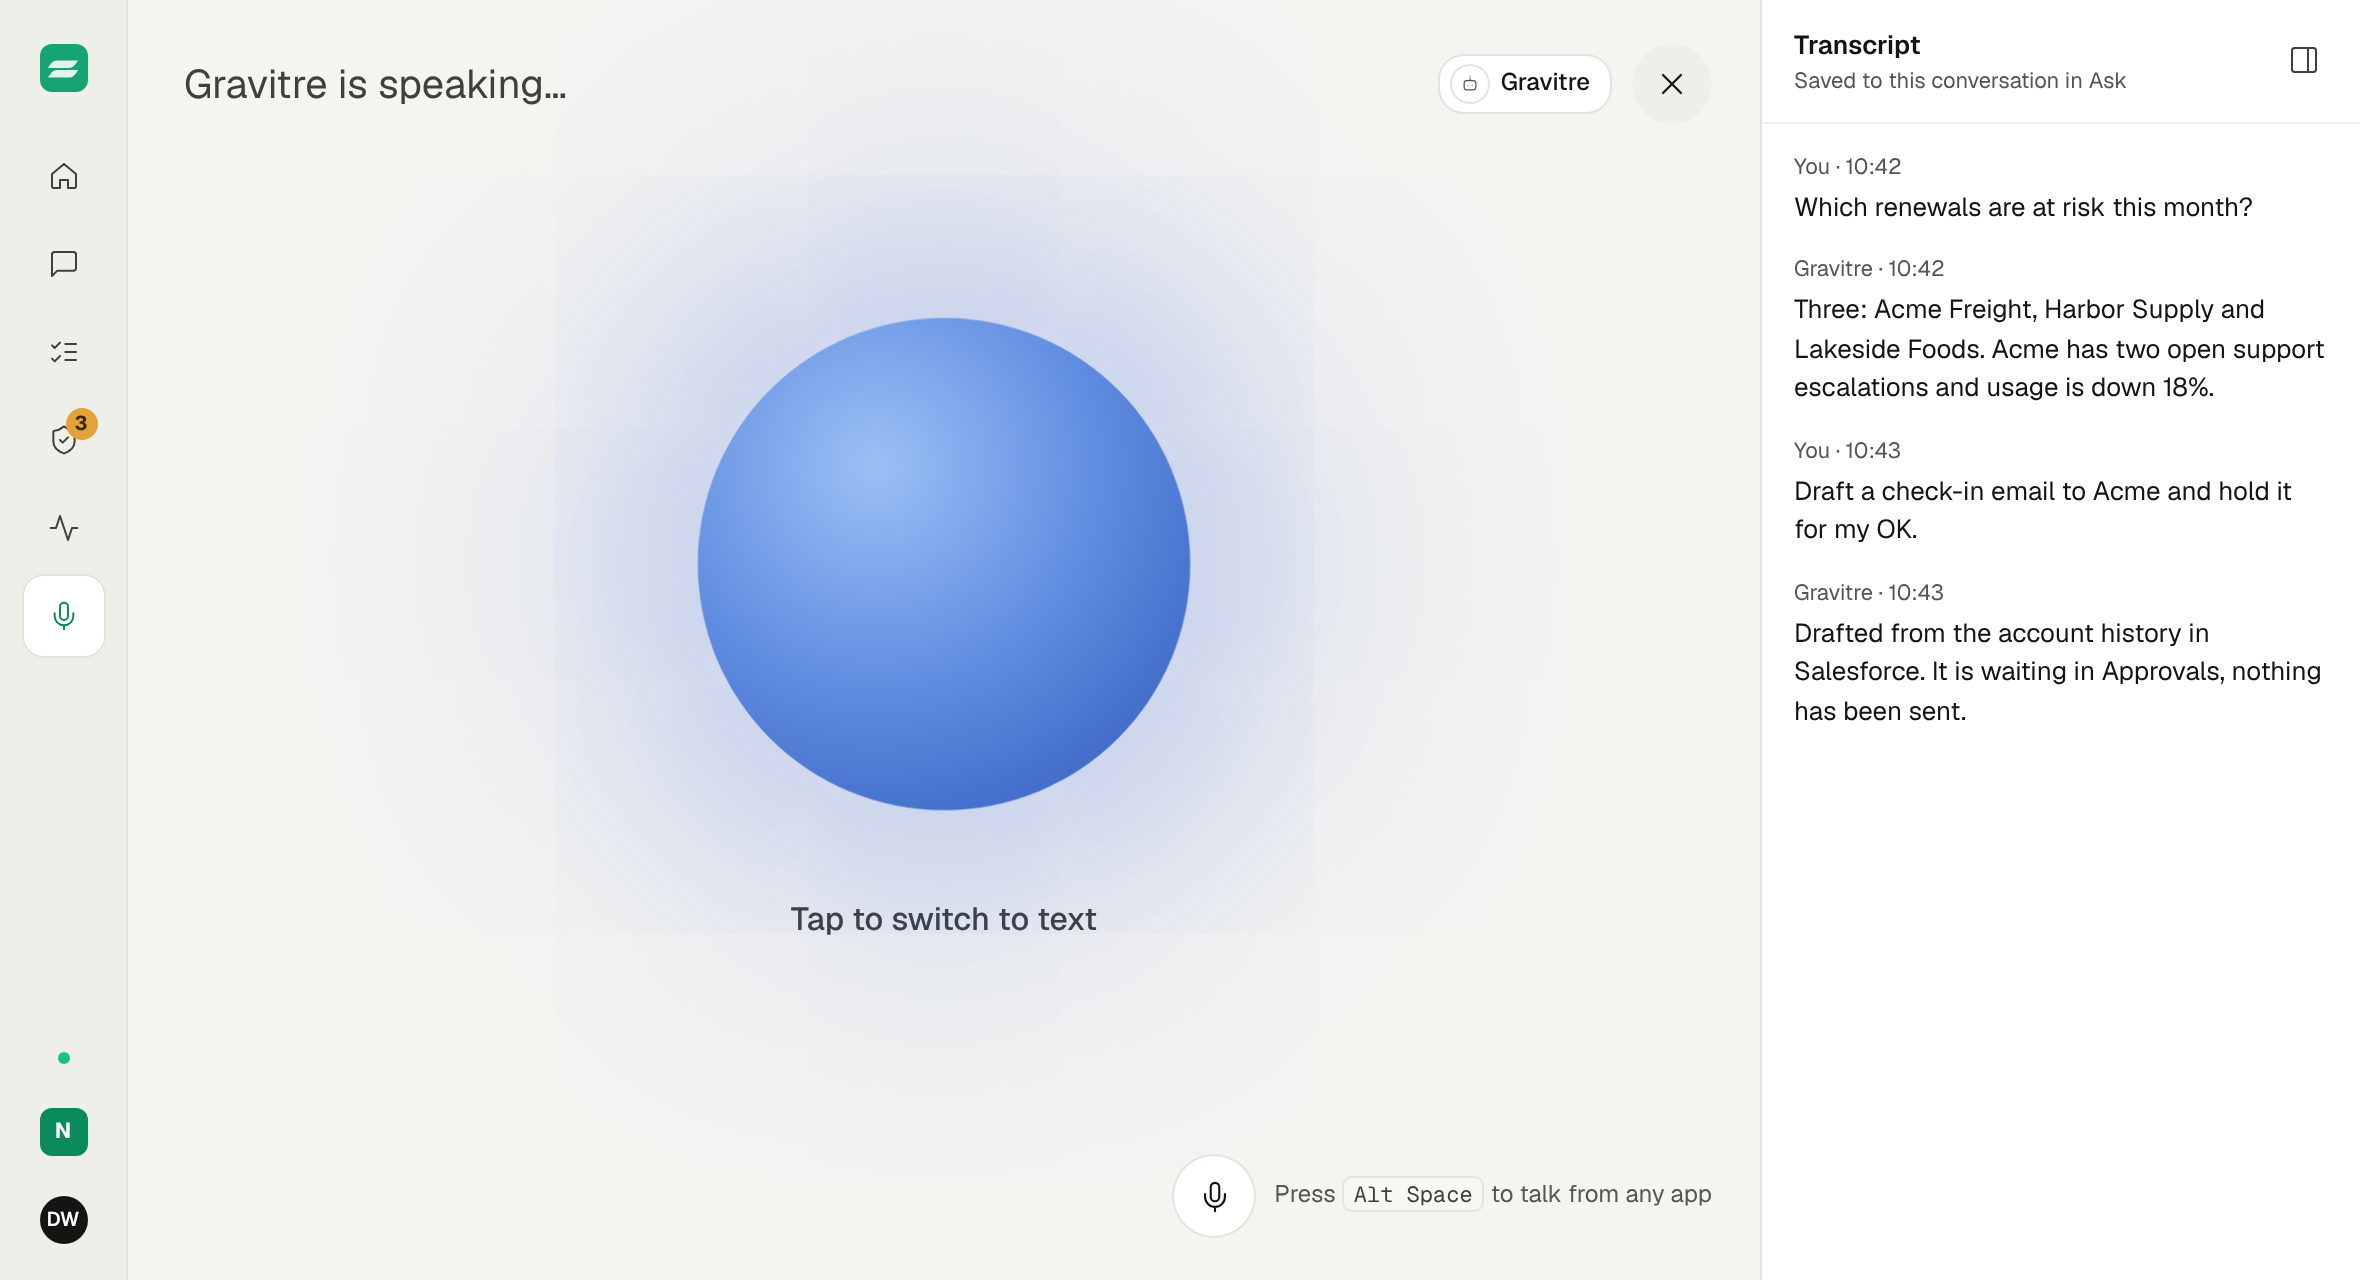
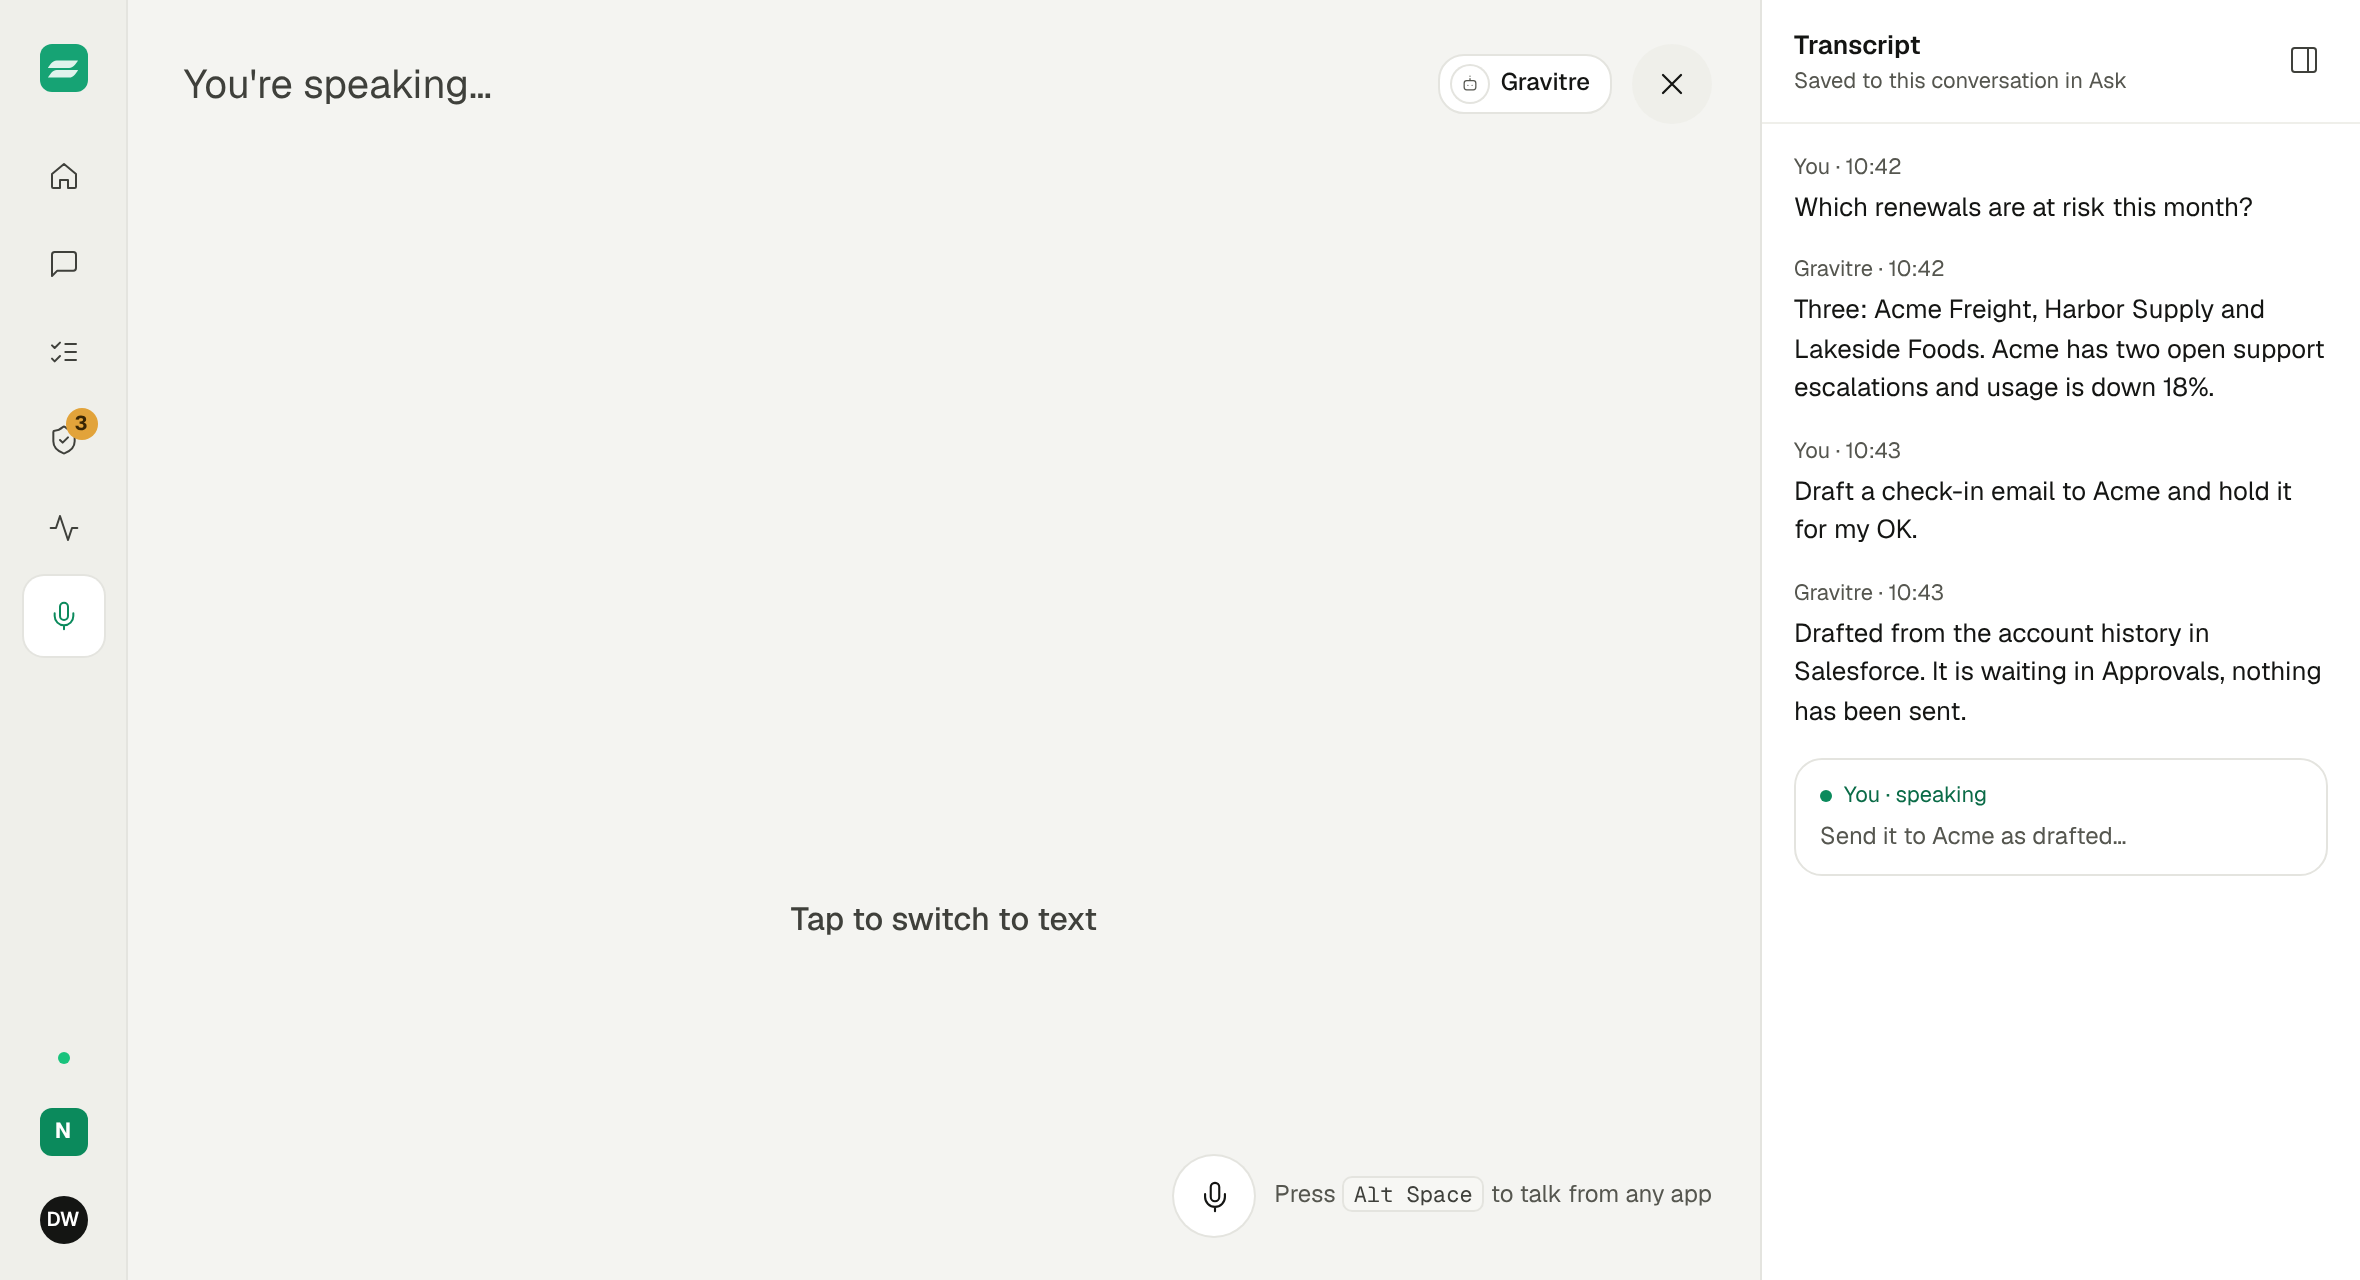
Marketing: live green, animated voice orb over the desktop Voice screenshot
Claude-Session: https://claude.ai/code/session_01XzMELQLTnafTGZHyK3LxYt

Changed region(s): [[0.2475, 0.1562, 0.5568, 0.7188], [0.7733, 0.5938, 0.897, 0.6875], [0.0619, 0.0625, 0.2475, 0.0938]]

diff --git a/apps/web/components/marketing/features/features-page.tsx b/apps/web/components/marketing/features/features-page.tsx
@@ -215,11 +215,12 @@ export function FeaturesPage() {
         />
         <ProductScreenshot
           src="/product/desktop-voice.png"
-          alt="Gravitre desktop voice mode: the orb speaking an answer, with the live transcript beside it"
+          alt="Gravitre desktop voice mode: the green orb listening while you speak, with the live transcript beside it"
           width={2360}
           height={1280}
           chromeLabel="Gravitre Desktop · Voice"
           className="mx-auto max-w-4xl"
+          overlay={<VoiceOrbOverlay />}
         />
       </GravitreSection>
 
@@ -231,6 +232,22 @@ export function FeaturesPage() {
       <HonestReporting />
       <MarketingPageEndCta />
     </main>
+  )
+}
+
+/** The capture's orb is hidden; this live one sits exactly where it was. */
+function VoiceOrbOverlay() {
+  return (
+    <div
+      aria-hidden
+      className="pointer-events-none absolute aspect-square w-[20.34%] -translate-x-1/2 -translate-y-1/2"
+      style={{ left: "40%", top: "44.06%" }}
+    >
+      <span className="mk-voice-ring absolute inset-0" />
+      <span className="mk-voice-ring absolute inset-0" />
+      <span className="mk-voice-ring absolute inset-0" />
+      <span className="mk-voice-orb absolute inset-0" />
+    </div>
   )
 }
 

diff --git a/apps/web/app/globals.css b/apps/web/app/globals.css
@@ -1691,3 +1691,28 @@ details[open] > .g-disclosure > :first-child::after {
   .mk-scene-drift, .mk-scene-pulse { animation: none; }
 }
 
+/* Live voice orb laid over the desktop Voice screenshot (Features). Matches
+   the desktop app's listening orb: same gradient, breathing and glow. */
+.mk-voice-orb {
+  border-radius: 9999px;
+  background: radial-gradient(circle at 36% 30%, #2fd394 0%, #19c37d 50%, #0b8a5c 100%);
+  box-shadow: 0 0 40px 18px rgb(25 195 125 / 0.24), 0 0 100px 60px rgb(25 195 125 / 0.09);
+  animation: mk-voice-breathe 0.8s cubic-bezier(0.22, 1, 0.36, 1) infinite alternate;
+}
+.mk-voice-ring {
+  border-radius: 9999px;
+  border: 2px solid rgb(25 195 125 / 0.45);
+  animation: mk-voice-ring 2.4s ease-out infinite;
+}
+.mk-voice-ring + .mk-voice-ring { animation-delay: 0.8s; }
+.mk-voice-ring + .mk-voice-ring + .mk-voice-ring { animation-delay: 1.6s; }
+@keyframes mk-voice-breathe { from { transform: scale(0.96); } to { transform: scale(1.04); } }
+@keyframes mk-voice-ring {
+  0% { transform: scale(1); opacity: 0.9; }
+  100% { transform: scale(1.55); opacity: 0; }
+}
+@media (prefers-reduced-motion: reduce) {
+  .mk-voice-orb, .mk-voice-ring { animation: none; }
+  .mk-voice-ring { opacity: 0; }
+}
+

diff --git a/apps/web/components/marketing/product-screenshot.tsx b/apps/web/components/marketing/product-screenshot.tsx
@@ -1,3 +1,4 @@
+import type React from "react"
 import Image from "next/image"
 import { cn } from "@/lib/utils"
 import { AppWindow } from "@/components/marketing/nodus/app-window"
@@ -20,6 +21,8 @@ export interface ProductScreenshotProps {
   /** Intrinsic size of the capture; defaults to the 2880x1800 web shots. */
   width?: number
   height?: number
+  /** Live layer drawn over the capture, positioned in % of the image. */
+  overlay?: React.ReactNode
   /** Set on the first shot above the fold only. */
   priority?: boolean
   /** Title pill in the macOS window outline every shot is framed in. */
@@ -36,6 +39,7 @@ export function ProductScreenshot({
   width = 2880,
   height = 1800,
   priority = false,
+  overlay,
   chromeLabel,
   glowClassName,
   className,
@@ -63,7 +67,14 @@ export function ProductScreenshot({
         ) : null}
 
         <AppWindow title={chromeLabel ?? "Gravitre"} className="relative">
-          {image}
+          {overlay ? (
+            <div className="relative">
+              {image}
+              {overlay}
+            </div>
+          ) : (
+            image
+          )}
         </AppWindow>
       </div>
       {caption ? (
